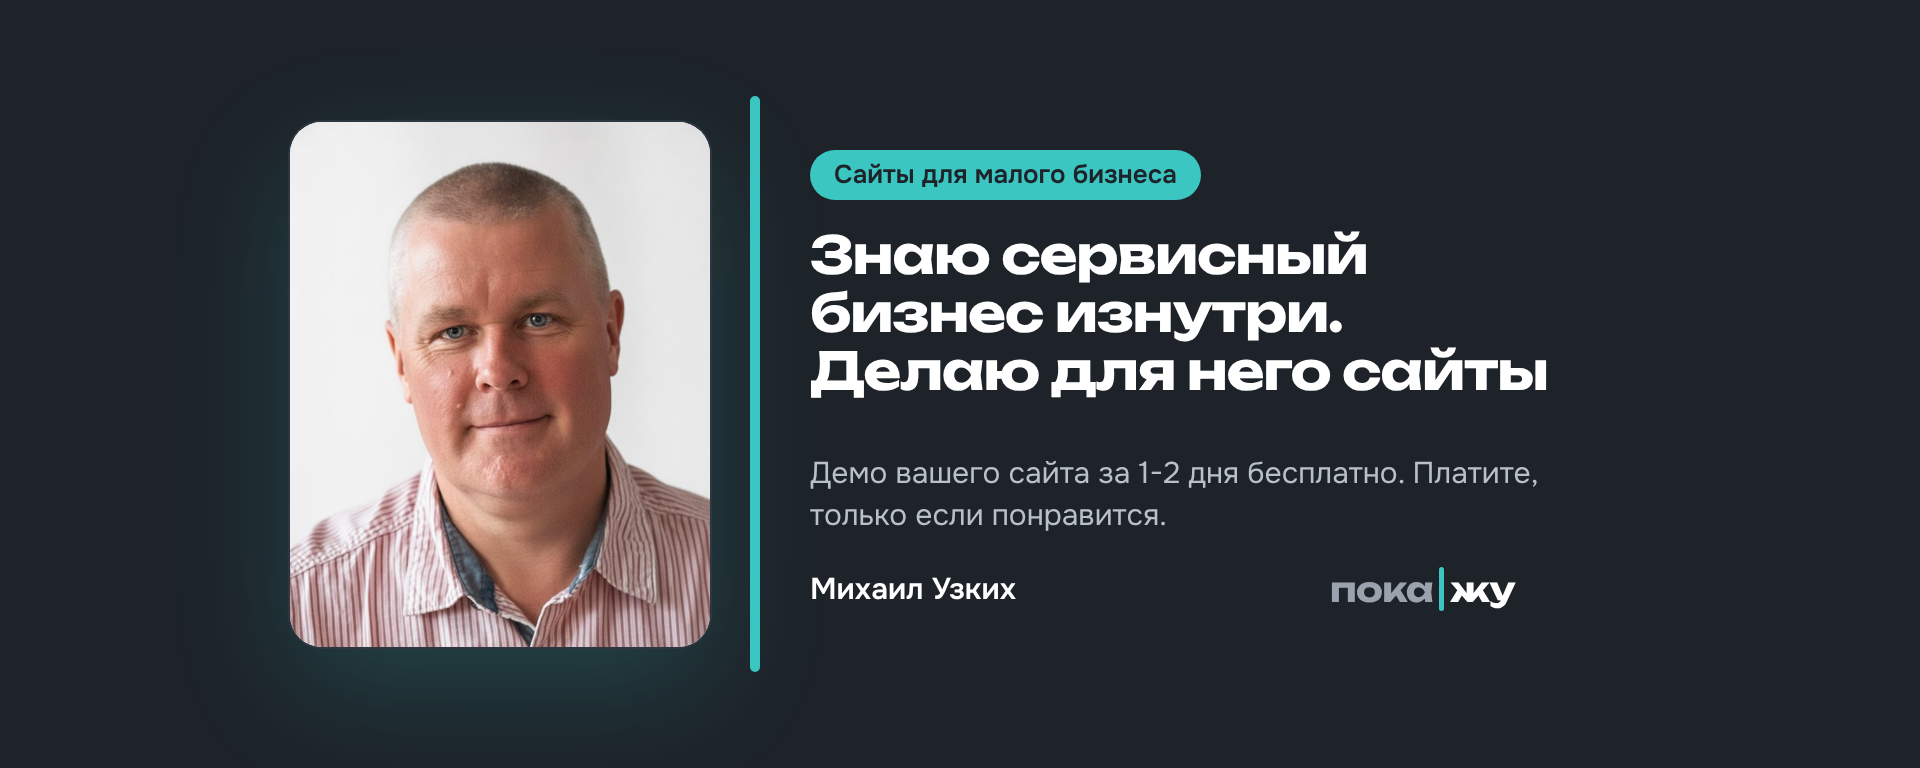
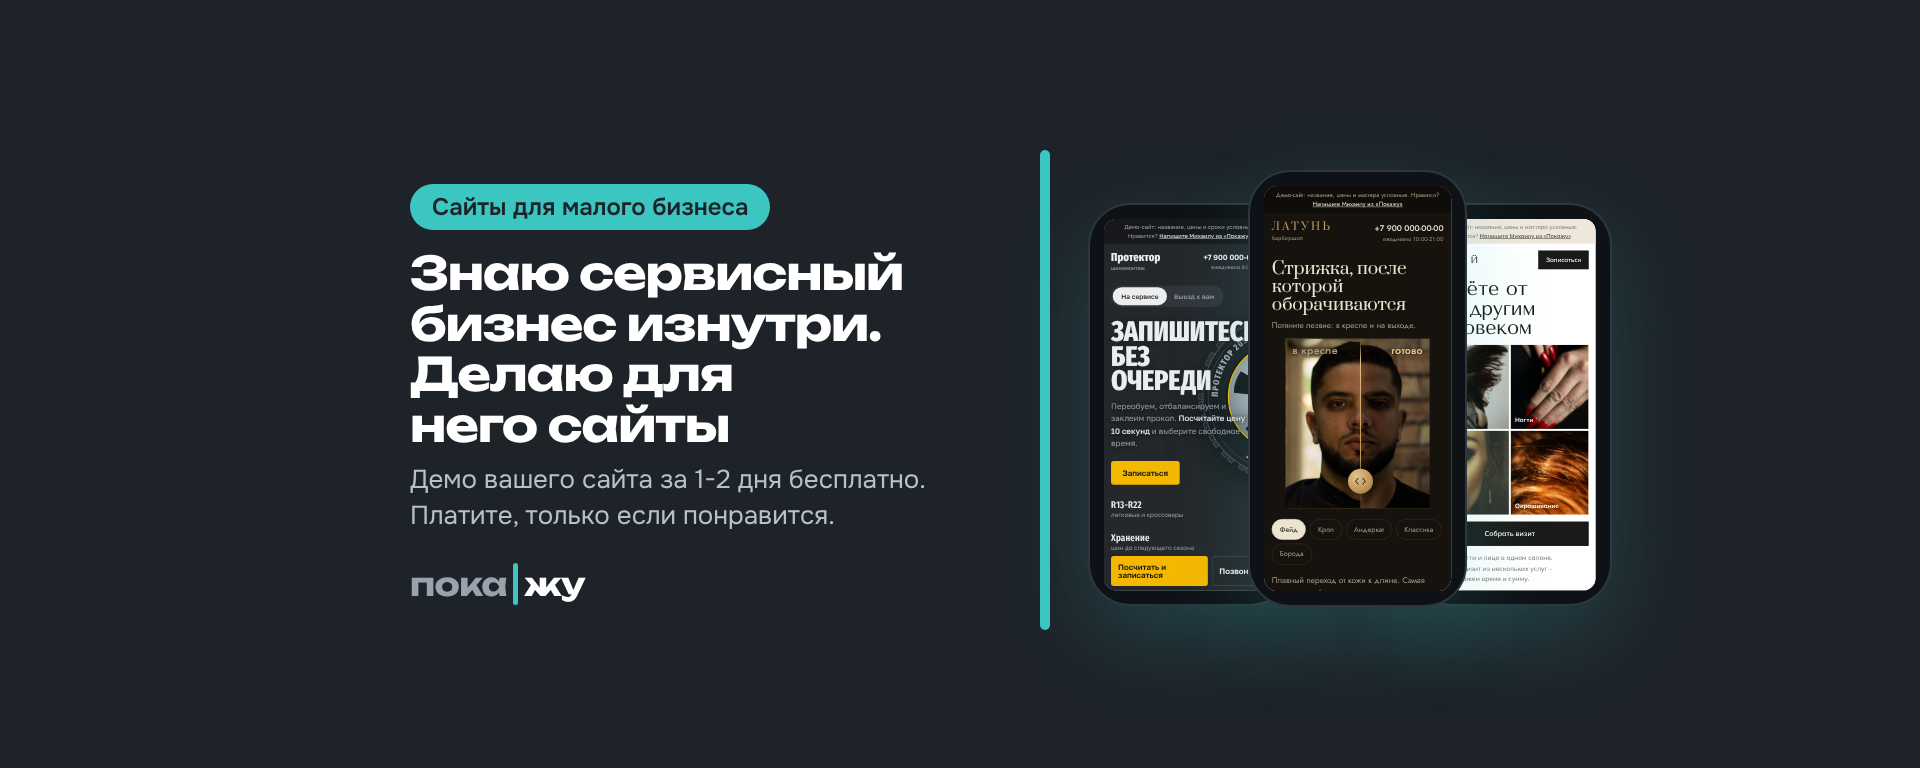
Обложка личной страницы ВК без фото: телефоны с демо, безопасная зона под показ на компьютере
Claude-Session: https://claude.ai/code/session_01A3gfKRAQVrfE1oJXs5FYLR

Changed region(s): [[0.125, 0.125, 0.8438, 0.875]]

diff --git a/brand/cards/cover-personal.html b/brand/cards/cover-personal.html
@@ -5,41 +5,55 @@
 <title>Обложка личной страницы ВК «Покажу»</title>
 <link href="../../fonts/fonts.css" rel="stylesheet">
 <style>
-  /* Обложка личной страницы ВКонтакте, 1920x768. Упаковка А «Практик из сервисного бизнеса».
-     Безопасная зона как у обложки сообщества: x 290-1630, y 110-660. */
+  /* Обложка личной страницы ВКонтакте, 1920x768, без фото. Упаковка А «Практик из сервисного бизнеса».
+     На компьютере ВК показывает только среднюю часть: по высоте примерно y 160-610 (сверху и снизу срезается ~150 px),
+     поэтому весь текст и телефоны лежат в этой полосе. Слева внизу на обложку заходит круглое фото профиля
+     (x до ~360), поэтому текст начинается с x=410. По ширине держимся в x 290-1630. */
   :root {
     --white:#FFFFFF; --graphite:#1D2329; --before:#9AA3AD; --accent:#3CC6C2;
-    --display:"Unbounded", sans-serif; --text:"Onest", sans-serif; --hand:"Caveat", cursive;
+    --display:"Unbounded", sans-serif; --text:"Onest", sans-serif;
   }
   * { box-sizing:border-box; }
   html, body { margin:0; width:1920px; height:768px; overflow:hidden; }
   body { background:var(--graphite); color:var(--white); font-family:var(--text); position:relative; }
 
-  .photo { position:absolute; left:290px; top:122px; width:420px; height:525px; border-radius:32px; object-fit:cover; background:#EEF2F5;
-           box-shadow:0 0 0 2px #2E3740, 0 40px 120px rgba(60,198,194,.20); }
-  .shutter { position:absolute; left:750px; top:96px; width:10px; height:576px; border-radius:5px; background:var(--accent); }
-
-  .pill { position:absolute; left:810px; top:150px; display:inline-block; padding:12px 24px; border-radius:999px;
-          background:var(--accent); color:var(--graphite); font:600 26px/1 var(--text); }
-  h1 { position:absolute; left:810px; top:226px; width:800px; margin:0; text-wrap:balance;
-       font:700 52px/1.12 var(--display); letter-spacing:-0.025em; }
-  .sub { position:absolute; left:810px; top:452px; width:760px; margin:0; font:400 30px/1.4 var(--text); color:#B8C0C8; }
-  .name { position:absolute; left:810px; top:574px; font:600 30px/1 var(--text); color:var(--white); }
-  .logo { position:absolute; left:1330px; top:572px; display:inline-flex; align-items:stretch; font:700 34px/1 var(--display); letter-spacing:-0.02em; }
+  .pill { position:absolute; left:410px; top:184px; display:inline-block; padding:11px 22px; border-radius:999px;
+          background:var(--accent); color:var(--graphite); font:600 24px/1 var(--text); }
+  h1 { position:absolute; left:410px; top:248px; width:600px; margin:0; text-wrap:balance;
+       font:700 46px/1.1 var(--display); letter-spacing:-0.025em; }
+  .sub { position:absolute; left:410px; top:462px; width:600px; margin:0; font:400 26px/1.4 var(--text); color:#B8C0C8; }
+  .logo { position:absolute; left:410px; top:568px; display:inline-flex; align-items:stretch; font:700 32px/1 var(--display); letter-spacing:-0.02em; }
   .logo .was { color:var(--before); }
   .logo .cut { width:5px; margin:-5px 6px; border-radius:3px; background:var(--accent); }
 
-  .pen { position:absolute; left:470px; top:56px; font:600 46px/1.05 var(--hand); color:var(--accent); }
+  .shutter { position:absolute; left:1040px; top:150px; width:10px; height:480px; border-radius:5px; background:var(--accent); }
+
+  .phone { position:absolute; background:#0E1216; border-radius:40px; padding:14px;
+           box-shadow:0 0 0 2px #2E3740, 0 30px 90px rgba(60,198,194,.20); }
+  .phone .screen { width:390px; height:844px; overflow:hidden; border-radius:28px; background:#fff; transform-origin:0 0; }
+  .phone iframe { width:390px; height:844px; border:0; display:block; }
 </style>
 </head>
 <body>
-  <img class="photo" src="../../site/v1/img/mikhail.jpg" alt="">
-  <div class="shutter"></div>
-
   <div class="pill">Сайты для малого бизнеса</div>
   <h1>Знаю сервисный бизнес изнутри. Делаю для него сайты</h1>
   <p class="sub">Демо вашего сайта за 1-2 дня бесплатно. Платите, только если понравится.</p>
-  <div class="name">Михаил Узких</div>
   <div class="logo"><span class="was">пока</span><span class="cut"></span><span>жу</span></div>
+
+  <div class="shutter"></div>
+  <div id="phones"></div>
+
+  <script>
+    var D = "../../demos/";
+    function phone(x, y, s, demo, z) {
+      var w = 390 * s + 28, h = 844 * s + 28;
+      return '<div class="phone" style="left:' + x + 'px;top:' + y + 'px;width:' + w + 'px;height:' + h + 'px;z-index:' + z + '">' +
+             '<div class="screen" style="transform:scale(' + s + ')"><iframe src="' + D + demo + '/index.html" scrolling="no"></iframe></div></div>';
+    }
+    document.getElementById("phones").innerHTML =
+      phone(1090, 205, 0.44, "shinomontazh", 1) +
+      phone(1250, 172, 0.48, "barbershop", 3) +
+      phone(1410, 205, 0.44, "salon", 2);
+  </script>
 </body>
 </html>

diff --git a/brand/vk-personal.md b/brand/vk-personal.md
@@ -4,7 +4,7 @@
 Страница: https://vk.ru/muzkikh
 
 Картинки:
-- `vk-personal-cover.png` - обложка профиля, 1920x768 (исходник `cards/cover-personal.html`);
+- `vk-personal-cover.png` - обложка профиля без фото, 1920x768 (исходник `cards/cover-personal.html`);
 - `vk-personal-pinned.png` - картинка для закреплённой записи, 1080x1350 (шаблон `cards/card.html`).
 
 ## Что было до упаковки (на 14 октября 2026)
@@ -52,7 +52,7 @@ https://test-site-pokagy.vercel.app/
 Пишите в личные сообщения: отвечаю в течение 30 минут.
 ```
 
-**Обложка:** `vk-personal-cover.png`. Все важное лежит в безопасной зоне (x 290-1630, y 110-660), как у обложки сообщества. После загрузки проверить на телефоне и на компьютере: если края обрезаются, сказать - сделаю вариант покрупнее.
+**Обложка:** `vk-personal-cover.png`, без фото: текст варианта А и три демо-телефона. На компьютере ВК срезает сверху и снизу по ~150 px и закрывает левый нижний угол кружком профиля, поэтому всё важное лежит в полосе y 160-610 и правее x=410. После загрузки проверить на телефоне: приложение может обрезать иначе, тогда сказать - подгоню.
 
 ## Закреплённая запись
 
